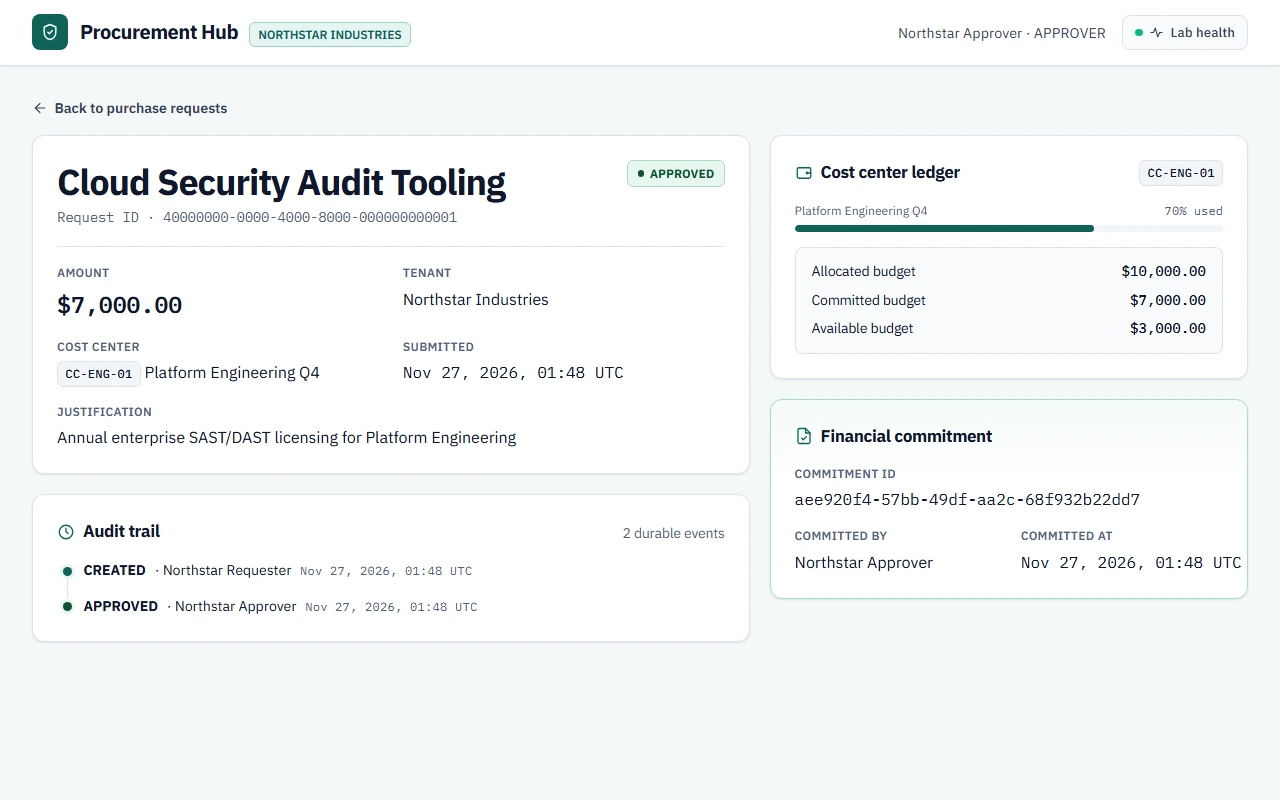
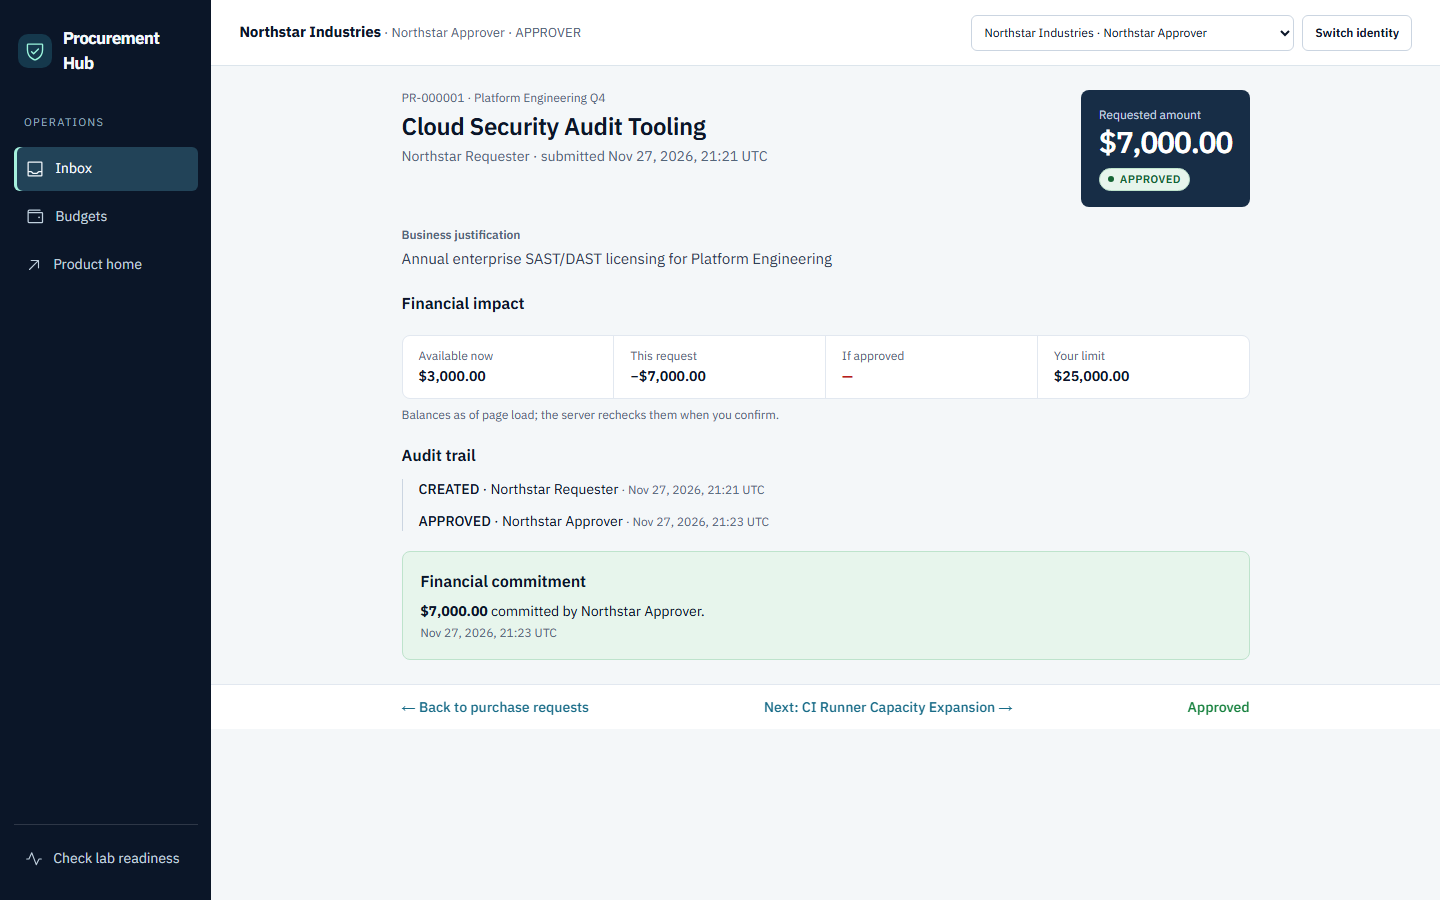
Document the procurement architecture and five workshop bots

diff --git a/README.md b/README.md
@@ -1,24 +1,37 @@
 <div align="center">
 
+<a href="#the-five-grok-bots"><picture>
+  <source media="(prefers-reduced-motion: reduce)" srcset="slides/assets/bloub-cycle-still.webp">
+  <img src="slides/assets/bloub-cercle-attentif-encre-anime.svg" width="120" height="120" alt="PH Security, the black workshop avatar. Meet the five Grok Bots.">
+</picture></a>
+
 # GrokBot for Enterprise Engineering Workflows
 
 ### From Issue to Verified Pull Request
 
 **Packt Advanced Workshop · December 11, 2026 · 60 minutes**
 
-[![TypeScript](https://img.shields.io/badge/TypeScript-5.9-3178C6?logo=typescript&logoColor=white)](https://www.typescriptlang.org/)
-[![Bun](https://img.shields.io/badge/Bun-1.4.5-252529?logo=bun&logoColor=white)](https://bun.sh/)
-[![Next.js](https://img.shields.io/badge/Next.js-16-000000?logo=nextdotjs&logoColor=white)](https://nextjs.org/)
-[![PostgreSQL](https://img.shields.io/badge/PostgreSQL-18.7-4169E1?logo=postgresql&logoColor=white)](https://www.postgresql.org/)
-[![Vitest](https://img.shields.io/badge/Vitest-5.1-6E9F18?logo=vitest&logoColor=white)](https://vitest.dev/)
-[![Playwright](https://img.shields.io/badge/Playwright-Chromium-2EAD33?logo=playwright&logoColor=white)](https://playwright.dev/)
-[![TLA+](https://img.shields.io/badge/TLA%2B-TLC_1.7.4-1F4E79)](formal/README.md)
+[![Bun 1.4.5](https://img.shields.io/badge/Bun-1.4.5-65483D?style=for-the-badge&labelColor=242933&logo=bun&logoColor=F4D9BE)](package.json)
+[![TypeScript 5.9.3](https://img.shields.io/badge/TypeScript-5.9.3-255F99?style=for-the-badge&labelColor=242933&logo=typescript&logoColor=82BCFA)](tsconfig.json)
+[![Next.js 16.4.6](https://img.shields.io/badge/Next.js-16.4.6-435064?style=for-the-badge&labelColor=242933&logo=nextdotjs&logoColor=white)](package.json)
+[![PostgreSQL 18.7](https://img.shields.io/badge/PostgreSQL-18.7-315C7F?style=for-the-badge&labelColor=242933&logo=postgresql&logoColor=9ECCED)](compose.yaml)
 
-Build an enterprise engineering environment where AI coding agents autonomously investigate, fix, and verify a real financial concurrency incident under enforceable architectural constraints and human-approved delivery governance.
+[![Vitest 5.1.1](https://img.shields.io/badge/Vitest-5.1.1-456522?style=for-the-badge&labelColor=242933)](vitest.config.ts)
+[![Playwright 1.62.1 with Chromium](https://img.shields.io/badge/Playwright-1.62.1_%C2%B7_Chromium-20624E?style=for-the-badge&labelColor=242933)](playwright.config.ts)
+[![TLA+ tools 1.7.4 for TLC model checking](https://img.shields.io/badge/TLA%2B_tools-1.7.4-594579?style=for-the-badge&labelColor=242933)](formal/README.md)
+
+Two approvers each see enough budget for a $7,000 purchase. What happens when they approve both requests at the same time against a shared $10,000 budget? In this workshop, you investigate that race in Procurement Hub, a synthetic purchasing app, and follow five Grok Bots from the first failing check to a pull request ready for human review.
 
 **[Participant Guide](docs/workshop/PARTICIPANT-GUIDE.md) · [Facilitator Guide](docs/workshop/FACILITATOR-GUIDE.md) · [PH-42 Incident](doc-specs/03-demo-issue-42.md) · [Reusable Starter Kit](starter-kit/README.md) · [Slides](slides/README.md)**
 
 </div>
+
+## Table of Contents
+
+- [Workshop pillars](#the-four-workshop-pillars) · [The PH-42 incident](#the-enterprise-incident-ph-42)
+- [Application preview](#application-preview) · [Application architecture](#application-architecture) · [The five Grok Bots](#the-five-grok-bots)
+- [Quick start](#quick-start) · [Engineering commands](#core-engineering-commands) · [Workshop editions and recovery](#workshop-editions-and-recovery)
+- [Documentation and reusable assets](#workshop-resources) · [Attribution](#attribution) · [About the presenter](#about-the-presenter)
 
 ---
 
@@ -43,15 +56,37 @@ In **PH-42 (*Concurrent Procurement Approval Violates Financial and Tenant Isola
 - On `workshop/starter`, approving both concurrently commits **`$14,000.00`** against **`$10,000.00`** (**`-$4,000.00` available**), violating `INV-01` and `INV-02`.
 - The reference solution (`workshop/solution`) enforces all ten business invariants (`INV-01`–`INV-10`) through PostgreSQL row-level locking (`SELECT ... FOR UPDATE`), database `CHECK` and `UNIQUE` constraints, tenant-scoped `decision_idempotency_keys` with canonical payload conflict detection, authorization re-checked before idempotent replay, and atomic ACID audit trails.
 
-### Application Preview
+## Application Preview
 
-![Procurement Hub enterprise dashboard showing Northstar cost center budgets, KPI summary strip, utilization meters, and status-filtered tenant requests](docs/media/procurement-hub.webp)
+![Procurement Hub home with product navigation and an illustrative Platform Engineering approval](docs/media/procurement-hub-home.webp)
 
-*Enterprise dashboard: Cost Center ledger (`CC-ENG-01` at 70% utilization after approving `$7,000.00`), KPI summary strip, approval limit badge, and URL-synced status filters.*
+*The public home introduces the decision workflow with an example $7,000 commitment.*
 
-![Procurement Hub request detail showing two-column executive layout, Cost Center ledger, durable financial commitment, and vertical audit timeline](docs/media/procurement-hub-detail.webp)
+![Northstar approval inbox with one pending request, one approved request and $28,000 available](docs/media/procurement-hub.webp)
 
-*Request detail view: 2-column executive layout with Cost Center ledger, durable 1:1 financial commitment record, and chronological vertical audit trail.*
+*Northstar has $28,000 available across two cost centers. The selected CI Runner Capacity Expansion request would exceed the $3,000 available in Platform Engineering.*
+
+![Approved Cloud Security Audit Tooling request with its audit trail and $7,000 financial commitment](docs/media/procurement-hub-detail.webp)
+
+*The request records who submitted and approved it. The commitment panel identifies the approver and the amount posted.*
+
+## Application Architecture
+
+Procurement Hub is a **modular monolith**. When an approver submits a decision, a Next.js route validates the input with Zod. The server uses the session and membership record to identify the approver, their tenant and their approval limit. The application layer calls a repository interface, and the domain defines approval rules and represents money in integer cents. For a successful approval, the PostgreSQL adapter updates the request and its cost center, records the financial commitment, and appends the audit event in one transaction. [Architecture and API contracts](SPEC.md)
+
+![Approval flow from the browser through Next.js validation and procurement rules to the PostgreSQL budget and audit transaction](slides/assets/architecture.svg)
+
+## The Five Grok Bots
+
+| Bot | What it contributes to PH-42 |
+| --- | --- |
+| **PH Lead** | Sets the acceptance criteria with Glau and assigns the investigation to PH Engineer. |
+| **PH Engineer** | Uses the failing run to identify the cause and prepares the TypeScript patch. |
+| **PH Quality** | Checks the candidate independently. For the two $7,000 requests, it compares the API responses with the database and looks for one commitment and $3,000 left. |
+| **PH Security** | Reviews the same commit for tenant isolation and approval limits, including whether a retry still requires authorization. |
+| **PH Platform** | Prepares the lab and assembles the verification results for review, identifying the exact Git commit tested. |
+
+Glau runs the checks in the local lab and shares sanitized results with the bots. Quality and Security return findings to Engineer. Glau reviews the evidence and decides whether to merge. [Team roles and review protocol](docs/agents/AGENT-ROLES.md)
 
 ---
 
@@ -96,16 +131,20 @@ come from the lab database.
 
 ---
 
-## Workshop Branches & Recovery Checkpoints
+## Workshop editions and recovery
+
+Branch names below identify refs inside individual bundles. Availability depends on the bundle supplied for the session. Check its manifest and clone HEAD before use.
 
 | Ref | Purpose |
 | --- | --- |
 | `workshop/starter` | Spoiler-free runnable brownfield app with the real reproducible PH-42 overspending defect (`ph42:reproduce` exits `1`) |
 | `workshop/guided` | Starter + progressive `GUIDED-WORKSHEET.md` hints and milestones without revealing the full fix |
 | `workshop/solution` | Complete verified reference implementation, tests, formal verification, and governance artifacts |
-| `checkpoint-00-starter` .. `checkpoint-05-pr-ready` | Immutable local recovery checkpoints for live 60-minute facilitation |
+| `checkpoint-00-starter` .. `checkpoint-05-pr-ready` | Historical local refs. Use a verified bundle and its manifest to recover the current UI |
 
 ---
+
+<a name="workshop-resources"></a>
 
 ## Documentation & Reusable Enterprise Assets
 
@@ -118,6 +157,8 @@ come from the lab database.
 ---
 
 ## Attribution
+
+The black PH Security avatar uses Bloub by Jérémy Perret. [Artwork credits](slides/assets/credits.txt) · [Bloub license](slides/assets/bloub-license.txt)
 
 Inspired by Lauren Tan's [*All Code Is Slop (Except Mine)*](https://www.youtube.com/watch?v=O_zcc6Xl12g) and [`cursor/plugins/pstack`](https://github.com/cursor/plugins/tree/main/pstack) (MIT). All skills, harnesses, loop runners, and formal workflows in this repository are independent, portable TypeScript adaptations for this workshop.
 
